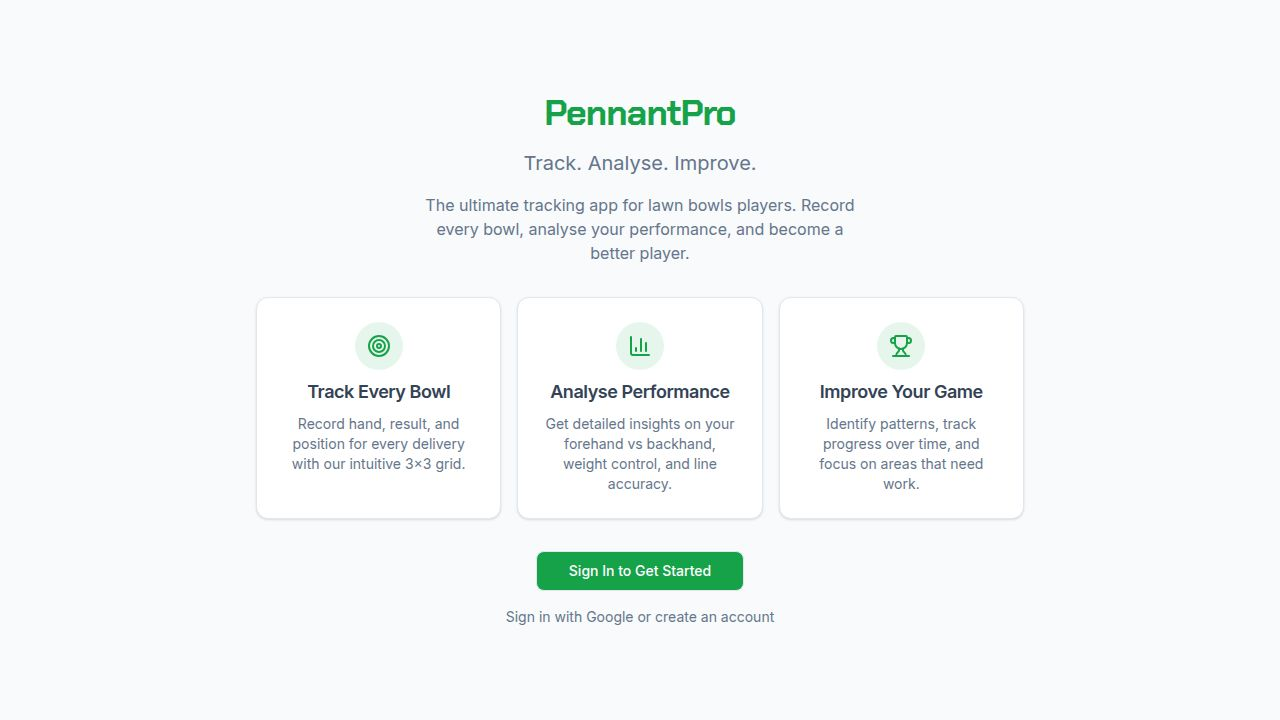
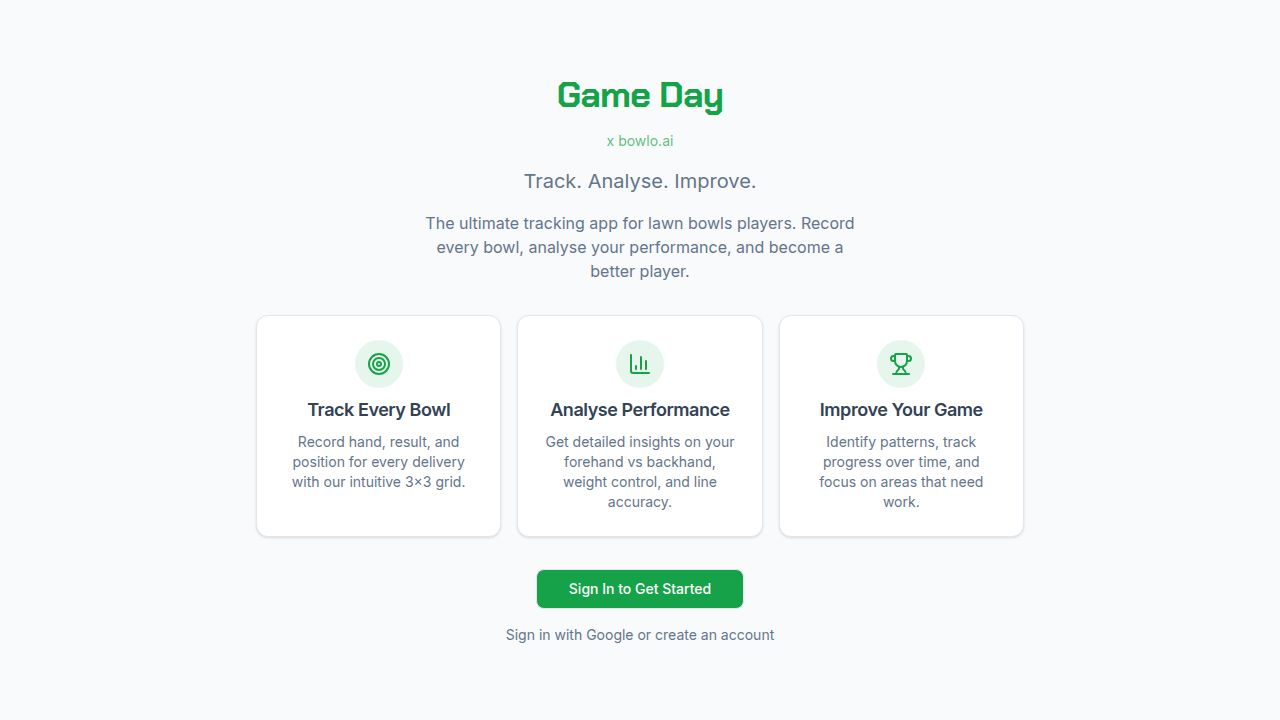
Rename the application to Game Day x bowlo.ai
Update all instances of "PennantPro" to "Game Day x bowlo.ai" across the frontend, including HTML titles, manifest files, component text, and markdown documentation.

Replit-Commit-Author: Agent
Replit-Commit-Session-Id: 6fb54917-08d7-41a0-a03e-1e94b8be763d
Replit-Commit-Checkpoint-Type: full_checkpoint
Replit-Commit-Event-Id: c39871d4-c45d-451d-a7eb-fc405ddbcf0a
Replit-Commit-Screenshot-Url: https://storage.googleapis.com/screenshot-production-us-central1/6723928c-374d-4b0d-a8f7-f4464587c831/6fb54917-08d7-41a0-a03e-1e94b8be763d/GLNJauv
Replit-Helium-Checkpoint-Created: true

diff --git a/client/index.html b/client/index.html
@@ -4,13 +4,13 @@
     <meta charset="UTF-8" />
     <meta name="viewport" content="width=device-width, initial-scale=1.0, maximum-scale=1, user-scalable=no, viewport-fit=cover" />
 
-    <title>PennantPro</title>
+    <title>Game Day x bowlo.ai</title>
     
     <!-- PWA Meta Tags -->
     <meta name="mobile-web-app-capable" content="yes">
     <meta name="apple-mobile-web-app-capable" content="yes">
     <meta name="apple-mobile-web-app-status-bar-style" content="black-translucent">
-    <meta name="apple-mobile-web-app-title" content="PennantPro">
+    <meta name="apple-mobile-web-app-title" content="Game Day">
     <meta name="theme-color" content="#22c55e">
     <meta name="msapplication-TileColor" content="#22c55e">
     
@@ -23,13 +23,13 @@
     <link rel="apple-touch-icon" sizes="152x152" href="/icon-192.svg">
     <link rel="apple-touch-icon" sizes="120x120" href="/icon-192.svg">
 
-    <meta property="og:title" content="PennantPro - Bowls Tracker" />
+    <meta property="og:title" content="Game Day x bowlo.ai - Bowls Tracker" />
     <meta property="og:description" content="Advanced tracking and analysis for competitive lawn bowls." />
     <meta property="og:type" content="website" />
     <meta property="og:image" content="https://replit.com/public/images/opengraph.png" />
     <meta name="twitter:card" content="summary_large_image" />
     <meta name="twitter:site" content="@replit" />
-    <meta name="twitter:title" content="PennantPro - Bowls Tracker" />
+    <meta name="twitter:title" content="Game Day x bowlo.ai - Bowls Tracker" />
     <meta name="twitter:description" content="Advanced tracking and analysis for competitive lawn bowls." />
     <meta name="twitter:image" content="https://replit.com/public/images/opengraph.png" />
 

diff --git a/client/src/components/layout.tsx b/client/src/components/layout.tsx
@@ -28,8 +28,8 @@ export default function Layout({ children }: { children: React.ReactNode }) {
   const NavContent = () => (
     <div className="flex flex-col gap-6 py-4">
       <div className="flex items-center gap-3 px-2">
-        <img src={generatedImage} alt="PennantPro" className="w-8 h-8" />
-        <span className="font-display text-xl font-bold tracking-tight text-primary">PennantPro</span>
+        <img src={generatedImage} alt="Game Day" className="w-8 h-8" />
+        <span className="font-display text-xl font-bold tracking-tight text-primary">Game Day</span>
       </div>
       <nav className="flex flex-col gap-2">
         {navItems.map((item) => (
@@ -57,8 +57,8 @@ export default function Layout({ children }: { children: React.ReactNode }) {
       {/* Mobile Header */}
       <header className="sticky top-0 z-30 flex h-16 items-center justify-between border-b bg-background/80 px-4 backdrop-blur-md md:hidden">
         <div className="flex items-center gap-2">
-          <img src={generatedImage} alt="PennantPro" className="w-8 h-8" />
-          <span className="font-display text-lg font-bold text-primary">PennantPro</span>
+          <img src={generatedImage} alt="Game Day" className="w-8 h-8" />
+          <span className="font-display text-lg font-bold text-primary">Game Day</span>
         </div>
         <Sheet open={isOpen} onOpenChange={setIsOpen}>
           <SheetTrigger asChild>

diff --git a/client/src/pages/landing.tsx b/client/src/pages/landing.tsx
@@ -6,7 +6,8 @@ export default function Landing() {
   return (
     <div className="min-h-screen flex flex-col items-center justify-center p-4 space-y-8">
       <div className="text-center space-y-4">
-        <h1 className="text-4xl font-bold text-primary" data-testid="heading-landing">PennantPro</h1>
+        <h1 className="text-4xl font-bold text-primary" data-testid="heading-landing">Game Day</h1>
+        <p className="text-sm text-primary/70">x bowlo.ai</p>
         <p className="text-xl text-muted-foreground">Track. Analyse. Improve.</p>
         <p className="text-muted-foreground max-w-md mx-auto">
           The ultimate tracking app for lawn bowls players. Record every bowl, 

diff --git a/client/src/pages/home.tsx b/client/src/pages/home.tsx
@@ -16,7 +16,8 @@ export default function Home() {
   return (
     <div className="space-y-8 animate-in fade-in duration-500">
       <div className="text-center">
-        <h1 className="text-3xl font-bold text-primary" data-testid="heading-dashboard">PennantPro</h1>
+        <h1 className="text-3xl font-bold text-primary" data-testid="heading-dashboard">Game Day</h1>
+        <p className="text-xs text-primary/70">x bowlo.ai</p>
         <p className="text-muted-foreground mt-1">Track. Analyse. Improve.</p>
       </div>
 

diff --git a/replit.md b/replit.md
@@ -1,8 +1,8 @@
-# PennantPro - Lawn Bowls Tracking Application
+# Game Day x bowlo.ai - Lawn Bowls Tracking Application
 
 ## Overview
 
-PennantPro is a progressive web application designed to track and analyze lawn bowls performance in pennant games (four-player format). The application enables players to record detailed statistics for each bowl delivered during a game, including hand position, accuracy metrics, and game outcomes. It provides comprehensive analysis tools to help players improve their performance through data-driven insights.
+Game Day x bowlo.ai is a progressive web application designed to track and analyze lawn bowls performance in pennant games (four-player format). The application enables players to record detailed statistics for each bowl delivered during a game, including hand position, accuracy metrics, and game outcomes. It provides comprehensive analysis tools to help players improve their performance through data-driven insights.
 
 The application follows a modern full-stack architecture with a React frontend, Express backend, and PostgreSQL database using Drizzle ORM for data persistence.
 
